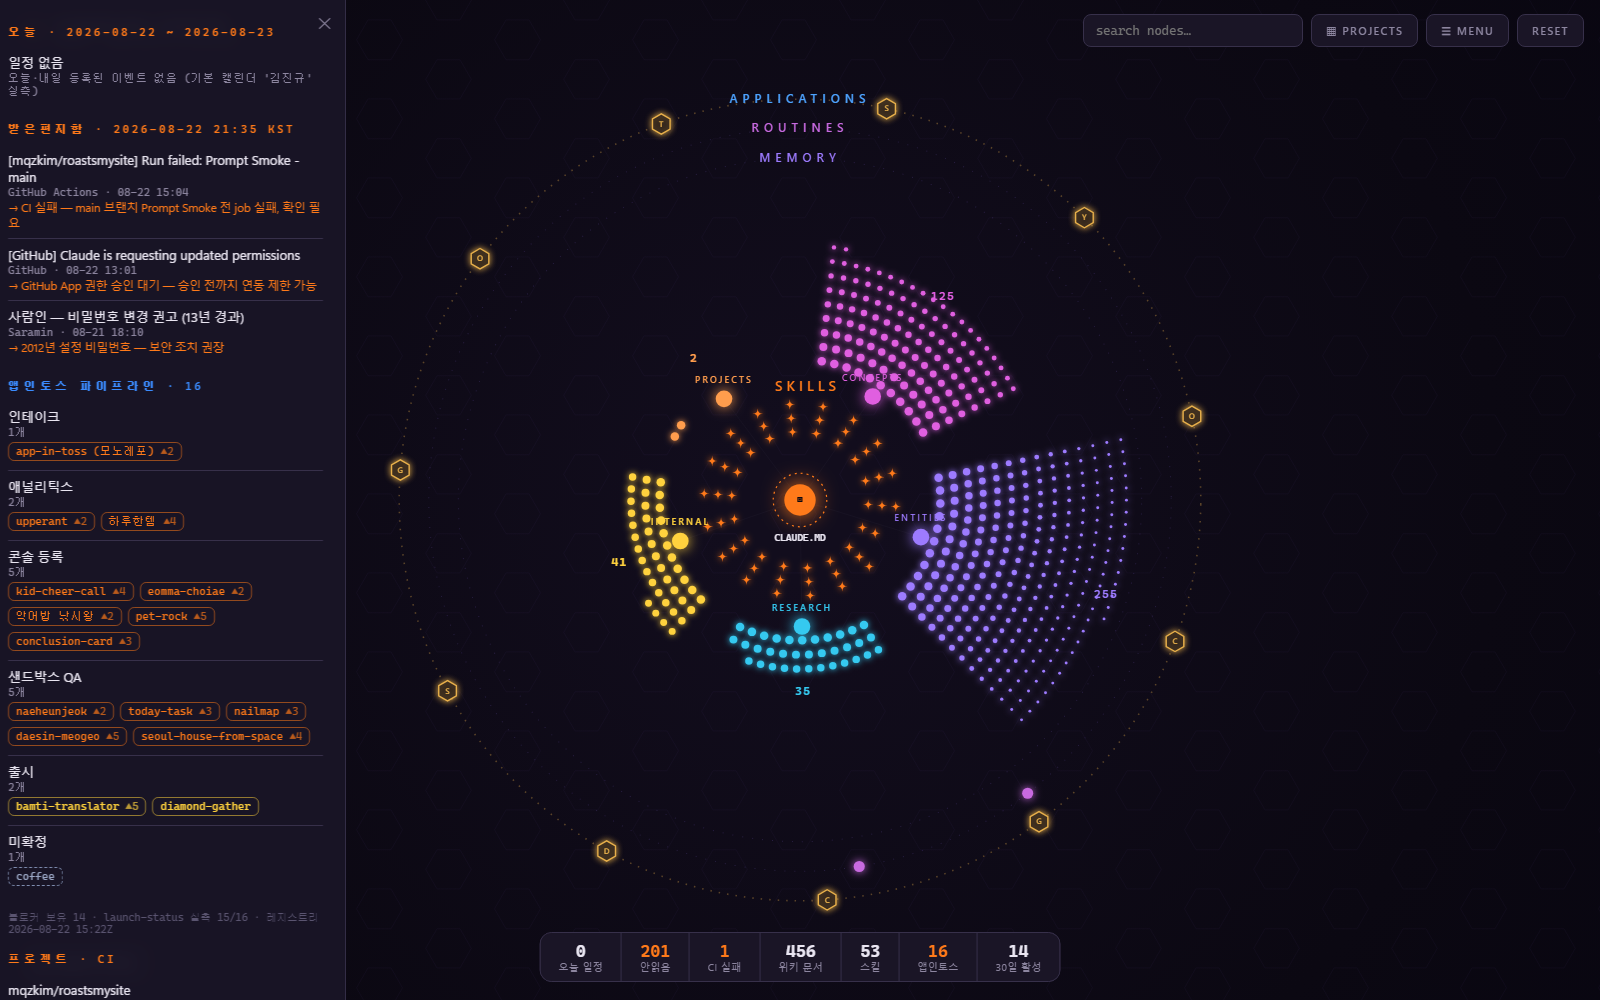
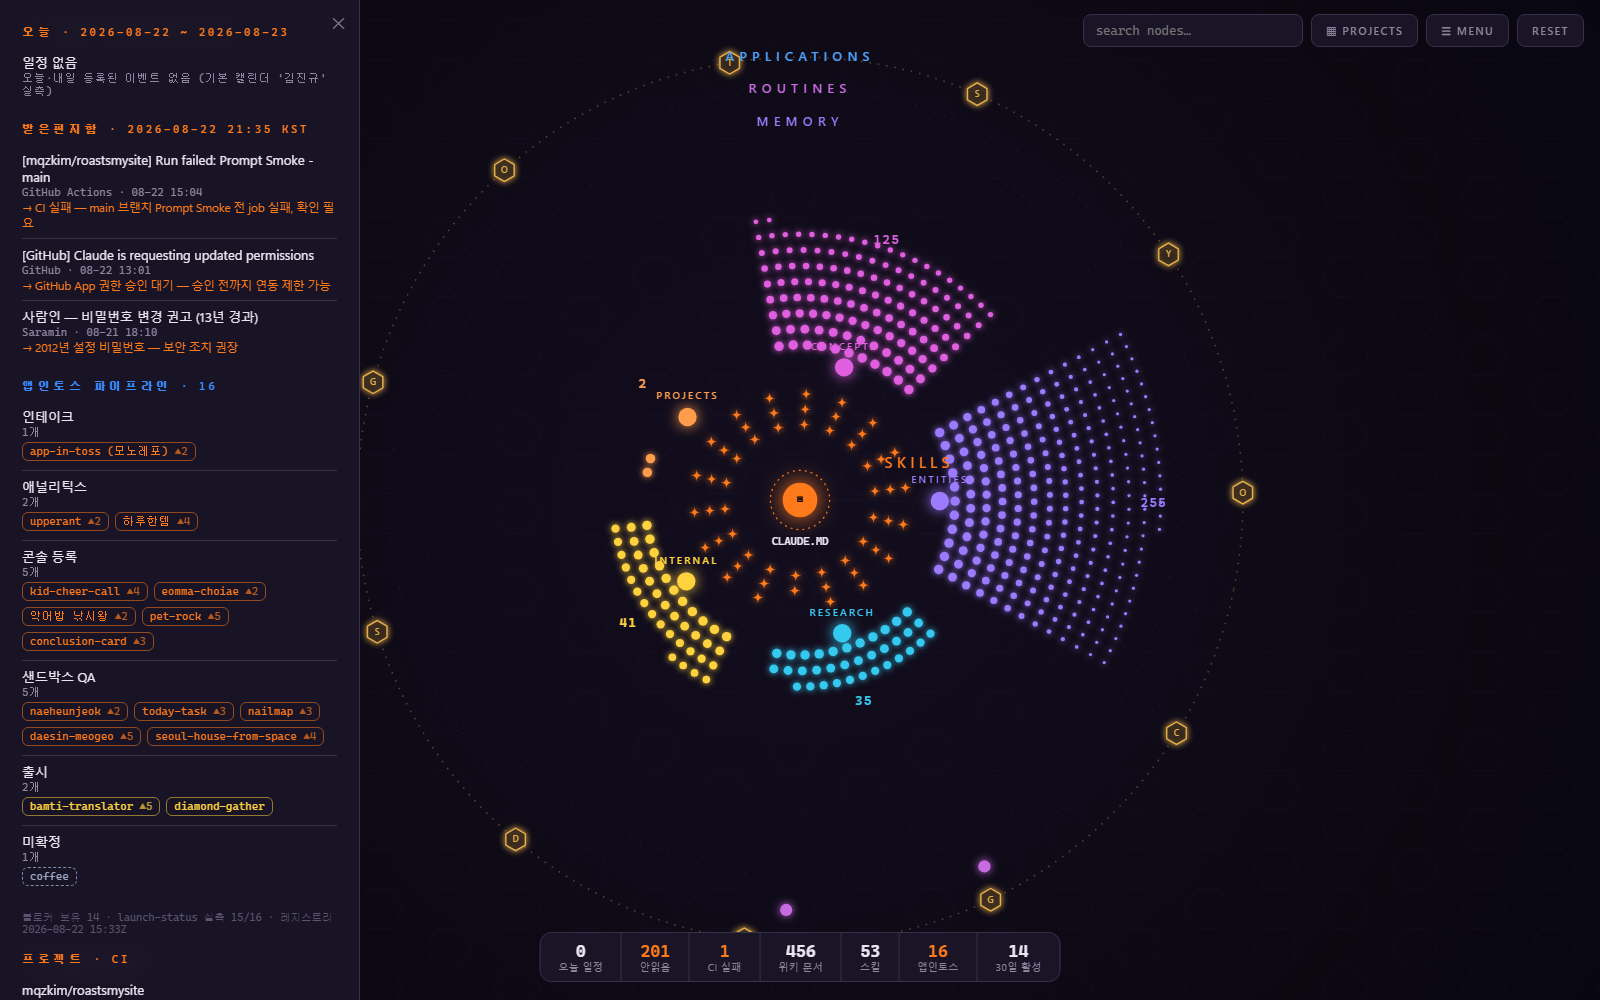
evolve-run: 2026-08-23 pipeline artifacts

diff --git a/projects-data.js b/projects-data.js
@@ -1,7 +1,7 @@
 // 자동 생성 — build-projects.mjs (로컬 클론 스캔 + projects-raw.json(gh) + .launch/launch-status.json + ~/.wiki 링크)
-// 생성: 2026-08-22 15:28Z · 수동 편집 금지 (보정은 projects.overrides.json, 재생성: node build-projects.mjs)
+// 생성: 2026-08-22 15:33Z · 수동 편집 금지 (보정은 projects.overrides.json, 재생성: node build-projects.mjs)
 const CC_PROJECTS = {
- "generatedAt": "2026-08-22 15:28Z",
+ "generatedAt": "2026-08-22 15:33Z",
  "roots": [
   "C:\\workspace",
   "C:\\Users\\my\\workspace"
@@ -68,6 +68,53 @@ const CC_PROJECTS = {
  },
  "items": [
   {
+   "name": "launch-deck",
+   "repo": "launch-deck",
+   "displayName": null,
+   "desc": null,
+   "category": "side-project",
+   "significance": 4,
+   "hidden": false,
+   "scaffold": false,
+   "legacy": false,
+   "mine": true,
+   "remote": "https://github.com/mqzkim/launch-deck.git",
+   "lang": null,
+   "branch": "main",
+   "dirty": 9,
+   "lastCommit": "2026-08-23",
+   "lastActivity": "2026-08-23",
+   "daysSince": 0,
+   "gh": {
+    "url": "https://github.com/mqzkim/launch-deck",
+    "private": true,
+    "pushedAt": "2026-08-22",
+    "openIssues": 0,
+    "commits30d": 1,
+    "recent": [
+     {
+      "date": "2026-08-22",
+      "message": "docs: add launch-deck design spec (sections 1-5, approved 2026-08-22)"
+     }
+    ],
+    "issueTitles": []
+   },
+   "toss": null,
+   "links": {
+    "local": "C:\\workspace\\launch-deck",
+    "github": "https://github.com/mqzkim/launch-deck",
+    "wiki": [
+     "concepts/standing-resolution-pattern.md",
+     "entities/agno-agentos.md",
+     "entities/launch-deck.md",
+     "internal/command-center-project-registry.md",
+     "_librarian/lint-queue.md"
+    ],
+    "launch": null,
+    "parent": null
+   }
+  },
+  {
    "name": "command-center",
    "repo": "command-center",
    "displayName": null,
@@ -81,7 +128,7 @@ const CC_PROJECTS = {
    "remote": "https://github.com/mqzkim/command-center.git",
    "lang": "JavaScript",
    "branch": "master",
-   "dirty": 5,
+   "dirty": 3,
    "lastCommit": "2026-08-23",
    "lastActivity": "2026-08-23",
    "daysSince": 0,
@@ -233,53 +280,6 @@ const CC_PROJECTS = {
     "parent": null
    },
    "noLocal": true
-  },
-  {
-   "name": "launch-deck",
-   "repo": "launch-deck",
-   "displayName": null,
-   "desc": null,
-   "category": "side-project",
-   "significance": 4,
-   "hidden": false,
-   "scaffold": false,
-   "legacy": false,
-   "mine": true,
-   "remote": "https://github.com/mqzkim/launch-deck.git",
-   "lang": null,
-   "branch": "main",
-   "dirty": 24,
-   "lastCommit": "2026-08-22",
-   "lastActivity": "2026-08-22",
-   "daysSince": 1,
-   "gh": {
-    "url": "https://github.com/mqzkim/launch-deck",
-    "private": true,
-    "pushedAt": "2026-08-22",
-    "openIssues": 0,
-    "commits30d": 1,
-    "recent": [
-     {
-      "date": "2026-08-22",
-      "message": "docs: add launch-deck design spec (sections 1-5, approved 2026-08-22)"
-     }
-    ],
-    "issueTitles": []
-   },
-   "toss": null,
-   "links": {
-    "local": "C:\\workspace\\launch-deck",
-    "github": "https://github.com/mqzkim/launch-deck",
-    "wiki": [
-     "concepts/standing-resolution-pattern.md",
-     "entities/agno-agentos.md",
-     "entities/launch-deck.md",
-     "internal/command-center-project-registry.md",
-     "_librarian/lint-queue.md"
-    ],
-    "launch": null,
-    "parent": null
-   }
   },
   {
    "name": "naeheunjeok",

diff --git a/dashboard.html b/dashboard.html
@@ -916,8 +916,8 @@ $("#drawerBody").addEventListener("click", async e => {
 function cosBase() { return "http://localhost:8051"; }
 async function cosFetch(path, body, ms) {
   const COS = cosBase();
-  /* 상태 조회 3s, search-all은 ollama 임베딩으로 ~8s 실측 → 20s */
-  const ac = new AbortController(); const t = setTimeout(() => ac.abort(), ms || 3000);
+  /* 타임아웃 20s: 꺼져 있으면 connection refused로 즉시 reject(오프라인 렌더). 켜져 있으면 L2/L3 임베딩 인제스트 중 /health 6~18s·search-all ~10s 실측이라 3s는 허위 오프라인 */
+  const ac = new AbortController(); const t = setTimeout(() => ac.abort(), ms || 20000);
   try {
     const r = await fetch(COS + path, { signal: ac.signal, ...(body ? { method: "POST", headers: { "Content-Type": "application/json" }, body: JSON.stringify(body) } : {}) });
     if (!r.ok) return null;
